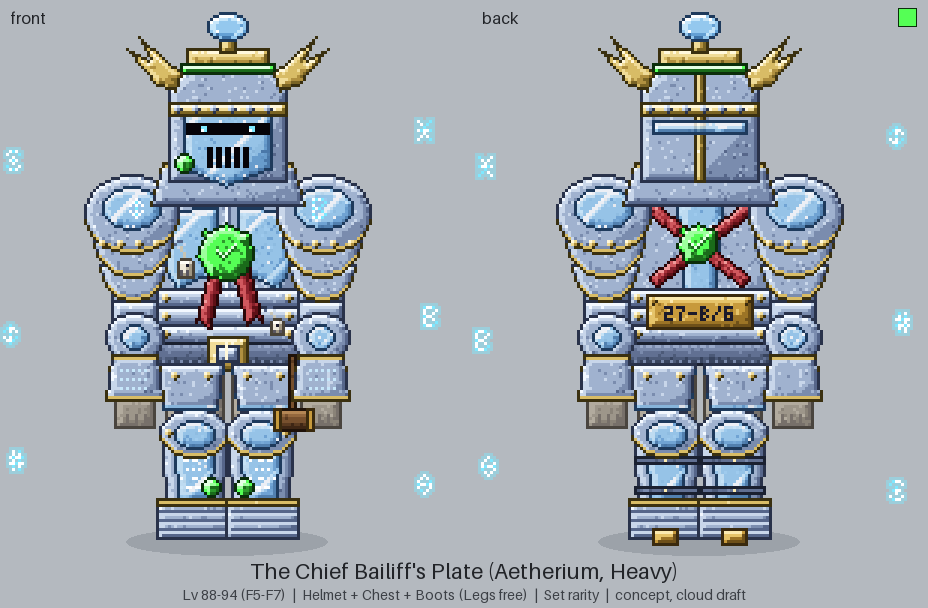
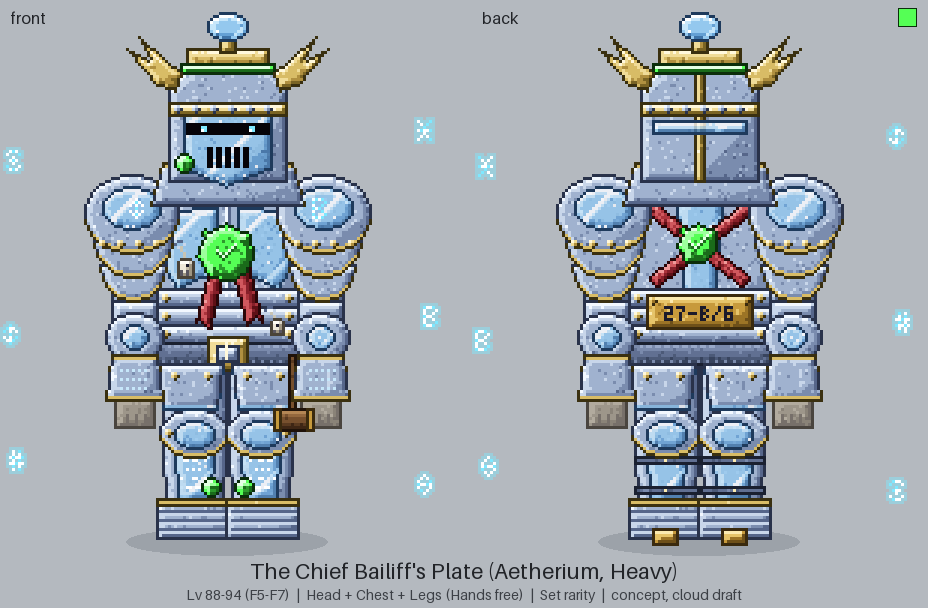
cloud: Capstone sets slot fix (spec + art)
Claude-Session: https://claude.ai/code/session_01Y979dGRrGSCQBxjp4ttbgD

diff --git a/research/cloud/capstone-set-art/make_capstone.py b/research/cloud/capstone-set-art/make_capstone.py
@@ -3,9 +3,12 @@
 
 The three Set-rarity sets from research/cloud/Capstone-Sets.md, each in its
 Voidglass (F1-F4) and Aetherium (F5-F7) version, front + back:
-  The Bailiff's Plate   (Heavy: Helmet, Chest, Boots)
-  The Clerk's Leathers  (Light: Helmet, Chest, Legs)
-  The Notary's Robes    (Cloth: Chest, Legs, Boots)
+  The Bailiff's Plate   (Heavy: Head, Chest, Legs - Hands free)
+  The Clerk's Leathers  (Light: Head, Chest, Hands - Legs free)
+  The Notary's Robes    (Cloth: Chest, Legs, Hands - Head free)
+Slot fix 2026-10-06: vanilla armor slots are Head / Chest / Hands / Legs
+(no Boots, UNVERIFIED), so boots / greaves / slippers are drawn as the lower
+part of the Legs piece and the free slot is drawn as the bare mannequin.
 
 Original pixel art drawn from code (no copied art, no game files).
 Run:  python3 research/cloud/capstone-set-art/make_capstone.py
@@ -438,7 +441,12 @@ def bailiff(T, back):
     mannequin(f, back, head=False, legs=True, feet=False)
     mt = tex_metal(21)
 
-    # --- BOOTS: "Footnote Greaves" (knee cop, shin greave, layered sabaton)
+    # --- LEGS: "Footnote Greaves" (cuisses under the tassets, knee cop, shin greave,
+    #     layered sabaton - the feet are part of the Legs piece: no Boots slot)
+    for side in (0, 1):
+        cu = S(rect(42, 108, 63, 130), side)
+        f.paint(cu, P, tex=mt)
+        f.paint(S(rect(46, 118, 59, 128), side), G, tex=tex_glass(9 + side), alpha=a)
     for side in (0, 1):
         gm = S(poly([(42, 136), (63, 136), (62, 162), (43, 162)]), side)
         f.paint(gm, P, tex=mt)
@@ -604,31 +612,10 @@ def clerk(T, back):
     a = T['glass_alpha']
     aeth = T['runes']
     lt = tex_leather(31)
-    mannequin(f, back, head=True, legs=False, feet=True)
+    mannequin(f, back, head=True, legs=True, feet=True)
 
-    # --- LEGS: "Quick-Reference Trousers"
-    for side in (0, 1):
-        lm = S(rect(42, 106, 63, 161), side)
-        f.paint(lm, L, tex=lt)
-        stitch(f, S(vline(44, 112, 158), side) if side == 0 else [(127 - 44, y) for y in range(112, 159)], L, 4, 2)
-        km = S(ell(42, 128, 63, 146), side)
-        f.paint(km, P, tex=tex_metal(3))
-        f.paint(S(ell(46, 131, 59, 143), side), G, tex=tex_glass(4 + side), alpha=a)
-        f.paint(rim(km, 1, 'bottom') & km, R, edge_ref=km, outline=False)
-        for y in (150, 156):                   # shin straps
-            f.paint(S(rect(42, y, 63, y + 2), side), BRASS if aeth else T['trim'])
-        if not back:
-            # index tabs sticking out of the outer seam (green / red / blue / gold)
-            for k, (yy, cc) in enumerate(((112, SET_G), (118, TAPE), (124, T['glass']), (147, BRASS))):
-                f.paint(S(rect(38, yy, 42, yy + 4), side), cc, grad=False)
-            if side == 0:
-                seal(f, 55, 115, 3, emblem='dot')           # set stamp badge (thigh)
-        else:
-            pk = S(rect(46, 112, 59, 124), side)            # back pocket stuffed with receipts
-            f.paint(S(rect(48, 108, 52, 114), side), PAPER, grad=False)
-            f.paint(S(rect(53, 109, 56, 114), side), PAPER, grad=False)
-            f.paint(pk, L, tex=lt)
-            stitch(f, [(x, y) for x, y in rim(pk, 1, 'top')], L, 5, 2)
+    # (slot fix 2026-10-06: the Legs slot is the free one now - bare mannequin legs;
+    #  the index tabs moved to the Hands piece "Quick-Reference Mitts")
 
     # --- CHEST: "Filing Jerkin" (forty pockets)
     torso = rect(39, 54, 88, 110) | rect(42, 52, 85, 54)
@@ -696,6 +683,25 @@ def clerk(T, back):
         f.paint(bm, P, tex=tex_metal(9))
         f.paint(S(poly([(28, 107), (37, 107), (38, 118), (27, 118)]), side), G, tex=tex_glass(6), alpha=a)
         f.paint(rim(bm, 1, 'top') & bm, R, edge_ref=bm, outline=False)
+        # --- HANDS: "Quick-Reference Mitts" (fingerless gloves, glass knuckle plate,
+        #     coloured index tabs out of the outer cuff, inked fingertips)
+        f.paint(S(rect(26, 130, 39, 135), side), DUMMY, tex=tex_leather(11))      # bare fingertips
+        f.dots([(X(x, side), y, 1) for x in (30, 33, 36) for y in (132, 133, 134)], DUMMY)
+        if not back:
+            f.col([(X(x, side), y) for x in (27, 28) for y in (133, 134)], INKC)   # ink-stained tip
+        gm = S(rect(25, 119, 40, 131), side)
+        f.paint(gm, L, tex=lt)
+        stitch(f, S(hline(26, 39, 129), side), L, 4, 2)
+        cf = S(rect(24, 117, 41, 121), side)                                    # cuff over the bracer
+        f.paint(cf, P, tex=tex_metal(10))
+        f.paint(rim(cf, 1, 'top') & cf, R, edge_ref=cf, outline=False)
+        f.paint(S(rect(28, 123, 37, 127), side), G, tex=tex_glass(11 + side), alpha=a)   # knuckle plate
+        for x in (29, 32, 35):
+            f.dots([(X(x, side), 125, 5)], G)
+        for k, (yy, cc) in enumerate(((107, SET_G), (112, TAPE), (117, T['glass']), (122, BRASS))):
+            f.paint(S(rect(20, yy, 24, yy + 3), side), cc, grad=False)          # index tabs
+        if side == 0 and not back:
+            seal(f, 32, 121, 2, emblem='dot')                                   # set stamp badge (cuff)
         # shoulder pads: two layers with glass edge
         for pm in (clip(ell(19, 56, 45, 76), y0=64), poly([(24, 50), (44, 47), (47, 58), (43, 66), (21, 68), (19, 58)])):
             pm = S(pm, side)
@@ -747,7 +753,8 @@ def notary(T, back):
     ct = tex_cloth(41)
     mannequin(f, back, head=True, legs=True, feet=False)
 
-    # --- BOOTS: "Waiting-Room Slippers" (soft, worn, a queue ticket on a loop)
+    # --- LEGS, lower part: "Waiting-Room Slippers" are sewn to the Margin Skirts
+    #     (one Legs piece - no Boots slot; soft, worn, a queue ticket on a loop)
     for side in (0, 1):
         sm = S(ell(38, 156, 64, 172) | rect(42, 156, 63, 165), side)
         f.paint(sm, Ln, tex=tex_cloth(5))
@@ -840,6 +847,24 @@ def notary(T, back):
         f.paint(rect(56, 98, 71, 108), R if aeth else TAPE, tex=tex_cloth(5))       # sash knot
         ribbon(f, 60, 106, 56, 128, 4, R if aeth else TAPE)
         ribbon(f, 67, 106, 71, 126, 4, R if aeth else TAPE)
+    # --- HANDS: "Signing Gloves" (cream kid gloves out of the bell sleeves, glass cuff,
+    #     ink-stained writing finger, green seal ring)
+    GL = PAPER if not aeth else T['plate']
+    for side in (0, 1):
+        hm = S(rect(20, 124, 33, 138) | ell(19, 132, 34, 143) | rect(16, 128, 20, 136), side)
+        f.paint(hm, GL, tex=tex_cloth(12))
+        for x in (24, 27, 30):                                                  # finger splits
+            f.dots([(X(x, side), y, 1) for y in range(137, 142)], GL)
+        cf = S(rect(18, 122, 35, 127), side)
+        f.paint(cf, G, tex=tex_glass(15 + side), alpha=a)
+        f.dots([(X(x, side), 126, 5) for x in range(19, 35, 3)], R)
+        if not back:
+            f.col([(X(x, side), y) for x in (22, 23) for y in (138, 139, 140)], INKC)   # writing finger
+            if side == 1:
+                f.paint(S(rect(28, 134, 31, 136), side), BRASS if not aeth else T['trim'], grad=False)
+                f.put(X(29, side), 135, SET_G[3])                               # seal ring
+            else:
+                seal(f, 27, 131, 2, emblem='dot')                               # set stamp badge
     # standing collar (tall for the High Notary)
     tall = 6 if aeth else 0
     for side in (0, 1):
@@ -857,11 +882,11 @@ def notary(T, back):
 # ---------------------------------------------------------------- output
 SETS = [
     ('bailiff', bailiff, ("The Bailiff's Plate", "The Chief Bailiff's Plate"), 'Heavy',
-     'Helmet + Chest + Boots (Legs free)'),
+     'Head + Chest + Legs (Hands free)'),
     ('clerk', clerk, ("The Clerk's Leathers", "The Senior Clerk's Leathers"), 'Light',
-     'Helmet + Chest + Legs (Boots free)'),
+     'Head + Chest + Hands (Legs free)'),
     ('notary', notary, ("The Notary's Robes", "The High Notary's Robes"), 'Cloth',
-     'Chest + Legs + Boots (Helmet free)'),
+     'Chest + Legs + Hands (Head free)'),
 ]
 RUNE_SPOTS = [(2, 40), (139, 30), (1, 98), (141, 92), (3, 140), (139, 148)]
 
@@ -923,10 +948,10 @@ def main():
     sheet_h = top + 3 * (fh + labh + gap) + 10
     sheet = Image.new('RGBA', (sheet_w, sheet_h), BG)
     d = ImageDraw.Draw(sheet)
-    d.text((sheet_w // 2, 16), "SkyWynn capstone sets - the Department's issued uniforms (concept, cloud draft v2)",
+    d.text((sheet_w // 2, 16), "SkyWynn capstone sets - the Department's issued uniforms (concept, cloud draft v2, slot fix)",
            font=font(34), fill=INK, anchor='mt')
     d.text((sheet_w // 2, 58), 'Set rarity (green) - drops only in The Final Audit.  Columns: Voidglass front / back, Aetherium front / back.  '
-           'Bare grey mannequin parts = the free 4th slot (and the Hands slot).', font=font(17), fill=(60, 64, 70, 255), anchor='mt')
+           'Bare grey mannequin parts = the free 4th slot (slots: Head / Chest / Hands / Legs).', font=font(17), fill=(60, 64, 70, 255), anchor='mt')
     for r, (key, fn, names, typ, slots) in enumerate(SETS):
         y = top + r * (fh + labh + gap)
         for c in range(4):

diff --git a/research/cloud/Capstone-Sets.md b/research/cloud/Capstone-Sets.md
@@ -2,6 +2,8 @@
 
 Cloud draft, 2026-10-06. Paper design; nothing built. Inputs read: `research/cloud/Capstone-Dungeon-Spec.md` (floors, chest, rolls, "Set rarity only here"), `research/cloud/SkyyArmory-Roadmap.md` (T11 Voidglass 76-88, T12 Aetherium 86-100, "Aetherium = Voidglass x1.2"), `docs/answered/gear.md` (armor types LOCKED 2026-10-05; "if it is not in the game yet, do not leave it in the reforge list" 2026-09-30; unidentified loot; reforge level-up +6), `SkyyGear-Stat-Catalog.md` (read-only), `research/SkyyGear-Stage1-Spec.md` (the live stat list), `research/Isles-of-the-Void-Lore.md` voice. Every number is a placeholder and a Server Setup row.
 
+**(updated 2026-10-06: slot fix)** Vanilla armor slots appear to be **Head / Chest / Hands / Legs** - no Boots slot (vanilla Mithril textures: Chest, Head, Legs, Hands - `docs/answered/gear.md` line 73; **UNVERIFIED**). The two Boots pieces are gone: boot looks (greaves, slippers) are now the lower part of the **Legs** piece, and the Light and Cloth sets take **Hands**. Each set still has 3 pieces, so every balance number is unchanged. Inputs added: `research/cloud/Capstone-Floors-4-7.md` (section 8, piece order per floor).
+
 ## 1. Rules this design follows
 
 | Rule | Source | Effect here |
@@ -13,13 +15,15 @@ Cloud draft, 2026-10-06. Paper design; nothing built. Inputs read: `research/clo
 
 ## 2. The three sets (Voidglass and Aetherium versions)
 
-Each set is **3 pieces**; the 4th armor slot is a normal piece (so a set never fills the whole body, and a Legendary can fill the gap). Slots differ per type so the loot talks to the type.
+Each set is **3 pieces**; the 4th armor slot is a normal piece (so a set never fills the whole body, and a Legendary can fill the gap). The free slot differs per type so the loot talks to the type. (updated 2026-10-06: slot fix) The 4 slots are Head / Chest / Hands / Legs; feet are drawn as part of the Legs piece. Recommended: **3 of 4** (below); the alternative "all 4 slots, 2 / 4-piece bonus" is costed in section 3.1 and kept as Question 1.
 
-| Type | Class fit | Slots (3 of 4) | Voidglass set (F1-F4) | Aetherium set (F5-F7) |
-|---|---|---|---|---|
-| **Heavy** | Warrior, Berserker | Helmet, Chest, Boots | **The Bailiff's Plate** | **The Chief Bailiff's Plate** |
-| **Light** | Archer, Assassin, Monk | Helmet, Chest, Legs | **The Clerk's Leathers** | **The Senior Clerk's Leathers** |
-| **Cloth** | Mage, Priest | Chest, Legs, Boots | **The Notary's Robes** | **The High Notary's Robes** |
+| Type | Class fit | Slots (3 of 4) | Free slot | Voidglass set (F1-F4) | Aetherium set (F5-F7) |
+|---|---|---|---|---|---|
+| **Heavy** | Warrior, Berserker | Head, Chest, Legs | Hands | **The Bailiff's Plate** | **The Chief Bailiff's Plate** |
+| **Light** | Archer, Assassin, Monk | Head, Chest, Hands | Legs | **The Clerk's Leathers** | **The Senior Clerk's Leathers** |
+| **Cloth** | Mage, Priest | Chest, Legs, Hands | Head | **The Notary's Robes** | **The High Notary's Robes** |
+
+Why these (updated 2026-10-06: slot fix): Heavy keeps its stamp helm and moves the greaves into a full Legs piece (cuisses + knee cops + greaves + sabatons); Light swaps the trousers for **Hands** (bow grip, daggers, fists - the Light classes live in their hands) so all three sets leave a **different** slot free; Cloth folds the slippers into the skirts and gains gloves for signing. Old -> new: Bailiff Boots -> Legs; Clerk Legs -> Hands; Notary Boots -> merged into Legs, new Hands piece.
 
 ### 2.1 Pieces and lore lines (Department voice)
 
@@ -27,16 +31,16 @@ Each set is **3 pieces**; the 4th armor slot is a normal piece (so a set never f
 |---|---|---|---|
 | Bailiff's Plate | Helmet | Bailiff's Stamped Visor | "Issued on Form 27-B/6. Shall not be removed during an objection." |
 | | Chest | Bailiff's Overruling Cuirass | "Every dent is a filed complaint. All were denied." |
-| | Boots | Bailiff's Footnote Greaves | "Stands firmly on the small print." |
+| | Legs | Bailiff's Footnote Greaves (cuisses, greaves and sabatons in one piece) | "Stands firmly on the small print." |
 | Clerk's Leathers | Helmet | Clerk's Eyeshade | "Reading glasses sold separately. The reading is mandatory." |
 | | Chest | Clerk's Filing Jerkin | "Forty pockets. Thirty-nine are for receipts." |
-| | Legs | Clerk's Quick-Reference Trousers | "Cross-referenced, indexed and fast." |
+| | Hands | Clerk's Quick-Reference Mitts (fingerless, index tabs on the cuffs; was the Trousers) | "Cross-referenced, indexed and fast. Fingertips not included." |
 | Notary's Robes | Chest | Notary's Sealed Robe | "Legally binding. Also warm." |
-| | Legs | Notary's Margin Skirts | "Written in the margins, as is tradition." |
-| | Boots | Notary's Waiting-Room Slippers | "Worn soft by an eternity of queuing." |
+| | Legs | Notary's Margin Skirts (with the Waiting-Room Slippers sewn on) | "Written in the margins, as is tradition. Slippers worn soft by an eternity of queuing." |
+| | Hands | Notary's Signing Gloves (new) | "Sign here. And here. Initial here. And here." |
 | Aetherium versions | all | prefix "Chief", "Senior" or "High", e.g. "Chief Bailiff's Stamped Visor" | Same line plus a second: "Promoted. The pay is the same." (Bailiff), "Reclassified. Please take a new number." (Clerk), "Approved in triplicate by the Void itself." (Notary) |
 
-Look: Voidglass = dark smoked glass over the type's own base (Heavy plate, Light black leather + glass trim, Cloth robe with glass buttons); Aetherium = pale silver-blue with floating runes (roadmap T12). Set pieces share the green name colour and a small green "set stamp" badge.
+Art: `research/cloud/capstone-set-art/capstone-sets-sheet.png` (slot-fixed; the old 3-pieces-with-Boots sheet is `capstone-sets-sheet-v1.png`). Look: Voidglass = dark smoked glass over the type's own base (Heavy plate, Light black leather + glass trim, Cloth robe with glass buttons); Aetherium = pale silver-blue with floating runes (roadmap T12). Set pieces share the green name colour and a small green "set stamp" badge.
 
 ## 3. Balance vs a normal Legendary piece (same level)
 
@@ -50,7 +54,18 @@ Unit B = the rolled-modifier value of one Legendary piece at that level (the Leg
 | 3 set pieces | + 3-piece bonus | **~1.08 B** each (+~13% total) | the set rewards the full farm: ~3 Legendary + 13% |
 | 3 Mythic pieces | none | ~1.20 B each | a perfect Mythic still beats the set in raw numbers, the set wins in **certainty** (fixed lines, no reforge gamble) |
 
-Rule of thumb for tuning: **a full 3-piece set must land between 3 Legendary and 3 Mythic pieces** (about 105-115%). The 4th slot is free for a Legendary or Mythic so players keep choosing. Aetherium = Voidglass x1.2 on every number (roadmap), rounded.
+Rule of thumb for tuning: **a full 3-piece set must land between 3 Legendary and 3 Mythic pieces** (about 105-115%). The 4th slot is free for a Legendary or Mythic so players keep choosing. Aetherium = Voidglass x1.2 on every number (roadmap), rounded. (updated 2026-10-06: slot fix) Still 3 pieces per set, so nothing in this table or section 4 changes.
+
+### 3.1 The alternative: all 4 slots, 2 / 4-piece bonus (not recommended; Question 1)
+
+| Build (4 slots) | Value (python-checked) | Note |
+|---|---|---|
+| 3-piece set + Legendary (recommended design) | 3.24 + 1.00 = **4.24 B** | |
+| 3-piece set + Mythic | 3.24 + 1.20 = **4.44 B** | the best mix today |
+| 4-piece alternative: 2 set + 2 Mythic | 2.00 + 2.40 = **4.40 B** | the bar a full 4-set must clear |
+| 4-piece alternative: full set at 112% of 4 Legendary | **4.48 B** | 4-piece bonus = 4.48 - 4 x 0.95 = 0.68 B = **1.74x** the 3-piece bonus (0.39 B) |
+
+So under 2 / 4 the 4-piece line would be the 3-piece line x1.74, rounded: Bailiff Defense +26% / Crit Damage +35 / Life Steal +5 (Aetherium 31 / 42 / 6); Clerk Crit Chance +14 / Speed +9% / Strength +10% (17 / 10 / 13); Notary Magical Power +24% / Max Mana +35% / Mana Steal +5 (29 / 42 / 6); 2-piece lines unchanged. Costs: one more piece to farm (4 floors' worth per tier, the launch F1-F3 no longer complete a set), no free slot for a Legendary / Mythic choice, and a 4th piece name / art per set. Recommended: stay with **3 of 4**.
 
 ## 4. Set bonuses and stat status
 
@@ -86,13 +101,22 @@ Arithmetic check: x1.2 of 8 / 10 / 15 / 20 / 5 / 4 / 6 / 12 = 9.6 / 12 / 18 / 24
 
 | Tier | Floor (item level) | Drops | Slot rule |
 |---|---|---|---|
-| Voidglass | F1 Records Hall (76) | piece 1 of any type | the first slot of the set (Heavy Helmet, Light Helmet, Cloth Chest) |
+| Voidglass | F1 Records Hall (76) | piece 1 of any type | the first slot of the set (Heavy Head, Light Head, Cloth Chest) |
 | | F2 Archives (79) | piece 2 | second slot |
 | | F3 Tab Office (82) | piece 3 | third slot |
 | | F4 Dragon's Nest (85) | any piece (the "makeup exam") | the slot the player owns least of |
 | Aetherium | F5 Lost & Found (88) | piece 1 | as above |
 | | F6 Void Counter (91) | piece 2 | |
 | | F7 Auditor's Chair (94) | piece 3 + any piece | the final boss always offers the missing piece |
+
+Piece order per type (updated 2026-10-06: slot fix; same order for Voidglass F1-F3 and Aetherium F5-F7, see `research/cloud/Capstone-Floors-4-7.md` section 8):
+
+| Piece | Heavy (Bailiff) | Light (Clerk) | Cloth (Notary) |
+|---|---|---|---|
+| 1 (F1 / F5) | Head - Stamped Visor | Head - Eyeshade | Chest - Sealed Robe |
+| 2 (F2 / F6) | Chest - Overruling Cuirass | Chest - Filing Jerkin | Legs - Margin Skirts |
+| 3 (F3 / F7) | Legs - Footnote Greaves | Hands - Quick-Reference Mitts | Hands - Signing Gloves |
+| never | Hands (free) | Legs (free) | Head (free) |
 
 - At launch only F1-F3 exist, so the Voidglass set is **fully collectable with the launch floors** (pieces 1-3). F4 and Aetherium come with the later floors.
 - A set drop is one of the floor chest's **gear rolls** (`gear:fn:roll`), arriving **unidentified** like all dungeon gear. The type (Heavy / Light / Cloth) is chosen with the Loot-Box "class-lean" weight: **50%** the opener's class type, 25% each of the others (so a Priest sees Cloth most but can find Heavy to trade).
@@ -112,13 +136,13 @@ Arithmetic check: x1.2 of 8 / 10 / 15 / 20 / 5 / 4 / 6 / 12 = 9.6 / 12 / 18 / 24
 
 ## 7. How SkyyGear carries the set (UNVERIFIED)
 
-SkyyGear already has a `set` rarity. Proposal: a set piece is an ordinary gear item with rarity `set`, its type and slot like any armor, plus **one string field `setId`** (e.g. `bailiff_voidglass`, `bailiff_aetherium`) in the same item metadata where rarity and level live. A tick (or the equip event) counts worn pieces per `setId` and adds the 2 / 3 piece rows to the player's stat total through the same path as armor modifiers. Other mods read it only through the bridge: `gear:fn:setCount` returns a `java.lang.Integer` for a given id (plain types, per the cross-mod rule). Both `setId` and the count are **UNVERIFIED** until the local session reads SkyyGear.
+SkyyGear already has a `set` rarity. Proposal: a set piece is an ordinary gear item with rarity `set`, its type and slot (Head / Chest / Hands / Legs) like any armor, plus **one string field `setId`** (e.g. `bailiff_voidglass`, `bailiff_aetherium`) in the same item metadata where rarity and level live. A tick (or the equip event) counts worn pieces per `setId` and adds the 2 / 3 piece rows to the player's stat total through the same path as armor modifiers. Other mods read it only through the bridge: `gear:fn:setCount` returns a `java.lang.Integer` for a given id (plain types, per the cross-mod rule). Both `setId` and the count are **UNVERIFIED** until the local session reads SkyyGear.
 
 ## 8. Identify, reforge, level-up, tooltips
 
 | System | Set pieces |
 |---|---|
-| **Identify** | drops unidentified ("Unidentified Set Chestplate", Lv 79, green); identify reveals **type, slot, name and the 3 rolled lines**; the fixed line and `setId` are visible at once only after identify (keeps the surprise). Identify cost uses a **Set multiplier** (placeholder x1.5 of Legendary) |
+| **Identify** | drops unidentified ("Unidentified Set Chestplate" / "... Helmet" / "... Leggings" / "... Gloves", Lv 79, green; slot names follow the vanilla slot words, UNVERIFIED); identify reveals **type, slot, name and the 3 rolled lines**; the fixed line and `setId` are visible at once only after identify (keeps the surprise). Identify cost uses a **Set multiplier** (placeholder x1.5 of Legendary) |
 | **Reforge** | **allowed on the 3 rolled lines only**; the fixed type line and `setId` are locked and never rerolled; same coin cost as Legendary x1.5; the Smithing "better reforge rolls" node applies |
 | **Reforge level-up** | allowed (+6 over the found level, never above 100); set bonuses use a **fixed table per tier**, not the item level, so levelling never changes a bonus |
 | **Identify rarity-up node** (Smithing) | **cannot** step a Set piece (it is already at the top and is not on the Mythic path); Set is never crafted |
@@ -141,12 +165,13 @@ SkyyGear already has a `set` rarity. Proposal: a set piece is an ordinary gear i
 | 6 | The equip event or tick cost for counting worn set pieces (every armor change vs every second). |
 | 7 | Whether unidentified items can carry a hidden `setId` (the sealed real id covers the item, check the set tag survives). |
 | 8 | Attack Speed and Thorns ship dates, to add the Light and Heavy "later" lines. |
+| 9 | (updated 2026-10-06: slot fix) **The real armor slot list** in Assets.zip / HytaleServer.jar: confirm Head / Chest / Hands / Legs and **no Boots** (the fix rests on the vanilla Mithril texture list), whether the Legs model covers the feet (the sabatons / slippers are drawn as part of Legs), and the vanilla slot words for the unidentified names. If a Boots slot does exist, the v1 layout (`capstone-set-art/capstone-sets-sheet-v1.png`) still works. |
 
 ## Questions for Skyy
 
 | # | Question | Default |
 |---|---|---|
-| 1 | Three set pieces per set with the 4th slot free, or all 4 slots? | 3 of 4 (Heavy: no Legs, Light: no Boots, Cloth: no Helmet) |
+| 1 | (updated 2026-10-06: slot fix) Slots are Head / Chest / Hands / Legs (no Boots). Three set pieces with the 4th slot free, or all 4 slots with a 2 / 4-piece bonus (4-piece line = 3-piece x1.74, section 3.1)? | 3 of 4 (Heavy: Hands free, Light: Legs free, Cloth: Head free) |
 | 2 | Does a set bonus work for every class, or only for the matching class? | everyone (soft armor rule); type trade-offs follow the armor |
 | 3 | Is a full set about 105-115% of three Legendary pieces about right, or should sets beat Mythic? | between Legendary and Mythic |
 | 4 | Set chance 8% per roll with a guaranteed piece after 12 chests? | yes |
@@ -154,3 +179,5 @@ SkyyGear already has a `set` rarity. Proposal: a set piece is an ordinary gear i
 | 6 | Names (Bailiff / Clerk / Notary) and the "Chief / Senior / High" Aetherium prefixes OK? | yes |
 | 7 | Add Thorns (Heavy) and Attack Speed (Light) to the bonuses the day they go live? | yes, as new rows |
 | 8 | Can set pieces be traded or sold on the AH, or soulbound to the finder? | tradeable (it is a farming game; the daily cap limits flooding) |
+| 9 | (updated 2026-10-06: slot fix) Clerk's Leathers: Hands (Quick-Reference Mitts, Legs free) so each set frees a different slot, or keep the Trousers (Legs) and leave Hands free like the Bailiff? | Hands |
+| 10 | (updated 2026-10-06: slot fix) Boot looks folded into Legs (Bailiff greaves + sabatons, Notary slippers sewn to the skirts) - OK? | yes |

diff --git a/research/cloud/capstone-set-art/README.md b/research/cloud/capstone-set-art/README.md
@@ -10,17 +10,20 @@ lines 73-78 (art review 2026-10-06: 2x-4x detail, half-mask cowl for Light helme
 
 **Start here:** `research/cloud/capstone-set-art/capstone-sets-sheet.png` (3 sets x Voidglass / Aetherium x front / back).
 
+**(updated 2026-10-06: slot fix)** Vanilla armor slots appear to be Head / Chest / Hands / Legs (no Boots, UNVERIFIED), so the sets were redrawn to the new `Capstone-Sets.md` slots: **Bailiff = Head + Chest + Legs** (greaves + sabatons are the lower Legs piece; Hands bare), **Clerk = Head + Chest + Hands** (new Quick-Reference Mitts; the Trousers are gone, Legs bare), **Notary = Chest + Legs + Hands** (slippers sewn to the Margin Skirts; new Signing Gloves; Head bare). The old sheet is kept as `capstone-sets-sheet-v1.png`; the per-set PNGs were overwritten.
+
 ## 1. Files
 
 | File | What |
 |---|---|
-| `capstone-sets-sheet.png` | All 12 views: rows = Bailiff / Clerk / Notary, columns = Voidglass front, back, Aetherium front, back; colour swatches (glass, base, trim, Set green) |
+| `capstone-sets-sheet-v1.png` | The first sheet (Bailiff / Notary with Boots, Clerk with Trousers) - kept to compare |
+| `capstone-sets-sheet.png` | All 12 views (slot-fixed): rows = Bailiff / Clerk / Notary, columns = Voidglass front, back, Aetherium front, back; colour swatches (glass, base, trim, Set green) |
 | `bailiff-voidglass.png`, `bailiff-aetherium.png` | The Bailiff's Plate / The Chief Bailiff's Plate, front + back |
 | `clerk-voidglass.png`, `clerk-aetherium.png` | The Clerk's Leathers / The Senior Clerk's Leathers, front + back |
 | `notary-voidglass.png`, `notary-aetherium.png` | The Notary's Robes / The High Notary's Robes, front + back |
 | `make_capstone.py` | The generator (run it to rebuild every PNG) |
 
-Total folder size about 250 KB. There is no v1 of these sets (first drawing), so nothing was renamed to `-v1`.
+Total folder size about 350 KB. The pre-slot-fix sheet is `capstone-sets-sheet-v1.png`.
 
 ## 2. Detail level (art review 2026-10-06)
 
@@ -34,14 +37,14 @@ Total folder size about 250 KB. There is no v1 of these sets (first drawing), so
 
 ## 3. The three sets (what is drawn)
 
-Bare grey mannequin parts = the **free 4th slot** (Capstone-Sets section 2) and the Hands slot. Every set piece carries a small
+Bare grey mannequin parts = the **free 4th slot** (Capstone-Sets section 2): Hands for the Bailiff, Legs (and feet) for the Clerk, Head for the Notary. Every set piece carries a small
 green wax **set stamp** (Set rarity `#55FF55`); the chest piece has a big one with red-tape ribbons.
 
 | Set (type) | Pieces drawn | Theme details |
 |---|---|---|
-| **Bailiff's Plate** (Heavy) | Stamped Visor, Overruling Cuirass, Footnote Greaves | great helm whose crest **is a rubber stamp** (knob, stem, block, green ink-pad edge); glass face plate with violet eye-slit glow; dents on the cuirass each with a paper tag ("every dent is a filed complaint"); a gavel on the hip; tally marks on the vambraces; greaves engraved with 4 rows of tiny "small print"; back: crossed red tape + seal, brass case plaque `27-B/6` (Form 27-B/6) |
-| **Clerk's Leathers** (Light) | Eyeshade, Filing Jerkin, Quick-Reference Trousers | half-mask cowl (the Light-helmet lock) with a voidglass **accountant's eyeshade** and a quill tucked behind the band; jerkin covered in pockets with receipts poking out ("forty pockets"); red-tape **sleeve garters**; ledger with bookmark on the hip; trousers with coloured **index tabs** on the outer seam and glass knee guards; back: scroll case of rolled forms, stuffed back pocket |
-| **Notary's Robes** (Cloth) | Sealed Robe, Margin Skirts, Waiting-Room Slippers | bell-sleeved robe with a scalloped glass-edged mantle, standing collar, glass buttons, stole printed with stamps, big seal with ribbons, quill + inkpot on the sash; A-line skirts with a red **margin rule** and hand-written lines; fluffy slippers with a queue ticket "404"; back: embroidered Department seal, sash knot with tails |
+| **Bailiff's Plate** (Heavy) | Stamped Visor (Head), Overruling Cuirass (Chest), Footnote Greaves (Legs: cuisses, knee cops, greaves, sabatons) | great helm whose crest **is a rubber stamp** (knob, stem, block, green ink-pad edge); glass face plate with violet eye-slit glow; dents on the cuirass each with a paper tag ("every dent is a filed complaint"); a gavel on the hip; tally marks on the vambraces; greaves engraved with 4 rows of tiny "small print", glass panels on the cuisses; bare mannequin hands (free slot); back: crossed red tape + seal, brass case plaque `27-B/6` (Form 27-B/6) |
+| **Clerk's Leathers** (Light) | Eyeshade (Head), Filing Jerkin (Chest), Quick-Reference Mitts (Hands) | half-mask cowl (the Light-helmet lock) with a voidglass **accountant's eyeshade** and a quill tucked behind the band; jerkin covered in pockets with receipts poking out ("forty pockets"); red-tape **sleeve garters**; ledger with bookmark on the hip; fingerless **mitts** with a glass knuckle plate, a metal cuff over the bracer, coloured **index tabs** (green / red / glass / gold) out of the outer cuff, ink-stained bare fingertips, set stamp on the cuff; bare mannequin legs and feet (free slot); back: scroll case of rolled forms, stuffed back pocket |
+| **Notary's Robes** (Cloth) | Sealed Robe (Chest), Margin Skirts with the Waiting-Room Slippers sewn on (Legs), Signing Gloves (Hands) | bell-sleeved robe with a scalloped glass-edged mantle, standing collar, glass buttons, stole printed with stamps, big seal with ribbons, quill + inkpot on the sash; A-line skirts with a red **margin rule** and hand-written lines; fluffy slippers (part of the Legs piece) with a queue ticket "404"; cream **Signing Gloves** out of the bell sleeves with a glass cuff, ink-stained writing finger, green seal ring and set stamp; bare mannequin head (free slot); back: embroidered Department seal, sash knot with tails |
 
 **Aetherium versions** (same shapes, pale silver-blue + pale gold trim + blue-white crystal): **floating runes** around the figure
 (6 original glyphs, soft halo) and runes etched on shoulders / sleeves; rank marks: **Chief** Bailiff = small wings beside the stamp crest
@@ -62,7 +65,7 @@ pin on the eyeshade band; **High** Notary = taller collar + a floating seal halo
 
 | # | Check |
 |---|---|
-| 1 | **Armor slots:** the vanilla texture list in the art brief (Chest, Head, Legs, Hands) suggests Hytale has **no Boots slot**. research/cloud/Capstone-Sets.md gives the Heavy and Cloth sets "Boots". If so, the "Footnote Greaves" fit the **Legs** slot (they are shin armor) and the Notary needs Hands instead of Slippers (or slippers become part of the Legs piece). Check the real slot list in the game files. |
+| 1 | **Armor slots** (applied 2026-10-06 as the slot fix, still to confirm): the vanilla texture list in the art brief (Chest, Head, Legs, Hands) suggests Hytale has **no Boots slot**. research/cloud/Capstone-Sets.md gives the Heavy and Cloth sets "Boots". If so, the "Footnote Greaves" fit the **Legs** slot (they are shin armor) and the Notary needs Hands instead of Slippers (or slippers become part of the Legs piece). Check the real slot list in the game files. |
 | 2 | Whether a model can render a translucent material (the voidglass panels) or only alpha-cut; if not, fake it with the darker glass colours baked in. |
 | 3 | Floating runes / halo: needs a separate model part or particles that follow the player (same question as the soul cage spin in the weapon review). |
 | 4 | Texture sizes: these figures are concept views, not UV textures; the real textures should match vanilla Mithril density (Chest 192x64, Head 160x64, Legs 128x64, Hands 64x64) or 2x. |
@@ -73,6 +76,6 @@ pin on the eyeshade band; **High** Notary = taller collar + a floating seal halo
 |---|---|---|
 | 1 | Do the bureaucracy jokes (stamp crest, eyeshade + quill, margin skirts, ticket 404) read well, or tone them down for end-game gear? | keep them, they are the capstone's identity |
 | 2 | Big green wax seal on each chest = the Set badge: OK, or use a smaller badge? | big seal on the chest, small seals on the other pieces |
-| 3 | If Hytale has no Boots slot: Heavy = Helmet / Chest / Legs (greaves), Cloth = Chest / Legs / Hands (slippers folded into the Legs piece, new "Notary's Signing Gloves")? | yes |
+| 3 | (updated 2026-10-06: slot fix - now drawn this way) Heavy = Head / Chest / Legs (greaves), Light = Head / Chest / Hands (mitts), Cloth = Chest / Legs / Hands (slippers in the Legs piece, Signing Gloves)? Or all 4 slots with a 2 / 4-piece bonus (Capstone-Sets Q1)? | 3 of 4 as drawn |
 | 4 | Aetherium rank marks (Chief wings, Senior pin + stripe, High Notary halo) - keep? | keep |
 | 5 | Floating runes around Aetherium wearers - always on, or only when the full 3-piece set is worn? | only with the full set (a visible reward) |

diff --git a/CLOUD-RESUME.md b/CLOUD-RESUME.md
@@ -56,8 +56,6 @@ Legs 128x64, Hands 64x64; item icons 64x64; Rabbit creature texture 160x160, mod
       2x-4x detail rule (docs/answered/gear.md 2026-10-06 art review), designs unchanged, keep v1 files. Output: the two folders' v2 sheets.
 - [ ] **Accessory icons v2 margin fix** - the Legendary halo / tips touch the 64 px edge on 9 icons (`research/cloud/accessory-art/README.md` v2 notes): keep a
       2 px margin, regenerate `icons-v2/` + `accessory-sheet-v2.png`. Output: the regenerated files.
-- [ ] **Capstone sets slot fix** - vanilla armor slots look like Head / Chest / Hands / Legs (no Boots, UNVERIFIED): rework the 3-of-4 piece choice in
-      `research/cloud/Capstone-Sets.md` + the art in `research/cloud/capstone-set-art/` to fit 4 real slots. Output: edited spec + art.
 - [ ] **Fish species icons** - one 64x64 icon per species in `research/cloud/Fish-Species-Catalog.md` (39 + junk / Lost Property), same art rules.
       Output: `research/cloud/fish-art/`.
 - [ ] **Enchanted icons touch-up** - redraw Enchanted Rice and Cotton (weakest per `research/cloud/enchanted-art/README.md`) and add the two new crop
@@ -66,3 +64,4 @@ Legs 128x64, Hands 64x64; item icons 64x64; Rabbit creature texture 160x160, mod
 
 ## Done (delete after logging - see the rules above)
 - [x] Ore regrow spec - 2026-10-06 - `research/cloud/Ore-Regrow-Spec.md`
+- [x] Capstone sets slot fix - 2026-10-06 - `research/cloud/Capstone-Sets.md` + `research/cloud/capstone-set-art/`

diff --git a/research/cloud/LOG.md b/research/cloud/LOG.md
@@ -103,3 +103,4 @@ section 6 when it reviews the results.
 - 2026-10-06: Light armor v2 -> research/cloud/light-armor/ (2x detail (128x192 figures, 7-step shading, quilting, stitching, rivets); half-mask cowl on every tier: Copper/Iron plain, Thorium skullcap, Cobalt fins, Adamantite crystal crown, Mithril wings, Onyxium crown + horns (vanilla helmet echoes guessed, UNVERIFIED); v1 untouched)
 - 2026-10-06: Accessory icons v2 -> research/cloud/accessory-art/ (same 44 designs redrawn natively at 64x64: 7-step bevels, real chain links, cut gems with claws, softer Legendary halo, per-line detail (laces, bubbles, feathers, veins, rune cracks); halo touches the 64 px edge on 9 Legendary icons (noted); v1 untouched)
 - 2026-10-06: Ore regrow spec -> research/cloud/Ore-Regrow-Spec.md (worldgen veins only (position registry, never player blocks), Depleted Vein placeholder, wall-clock timers with jitter + chunk catch-up; per-ore timers 600-2,400 s from supply/demand python; Z3 Mithril + Z5 Drakonite still tight -> bigger Mithril veins; Ember density 21 -> 7 (Z4) / 3.5 (Z5))
+- 2026-10-06: Capstone sets slot fix -> research/cloud/Capstone-Sets.md + capstone-set-art/ (3 of the real 4 slots Head/Chest/Hands/Legs: Bailiff free Hands, Clerk free Legs (new Quick-Reference Mitts), Notary free Head (new Signing Gloves, slippers folded into Legs); balance unchanged; 4-slot 2/4-piece option costed as Q1; v1 sheet kept)
